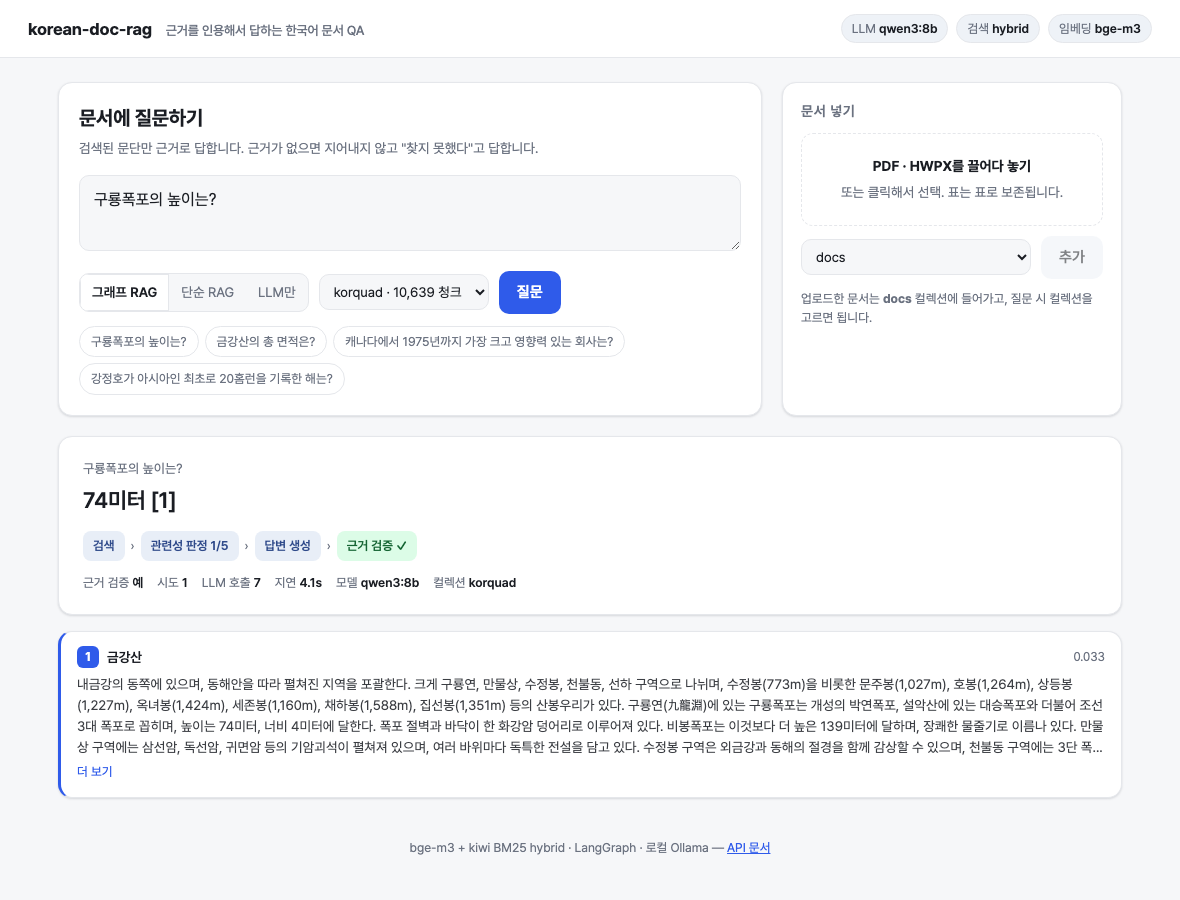
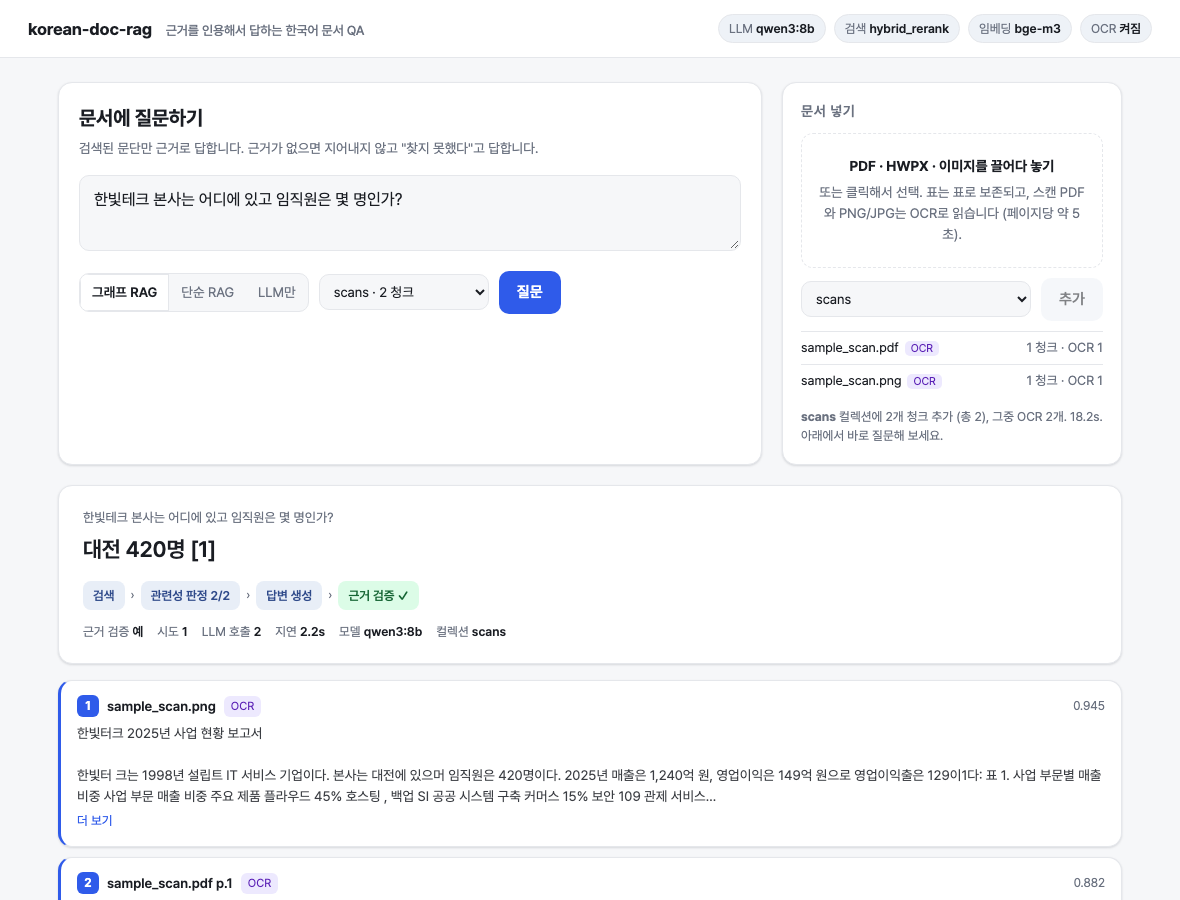
feat(ui): surface OCR in the web UI and upload API
- /upload returns per-file {chunks, tables, ocr} and a warnings[] list naming
  files that produced no text and why (OCR off / easyocr missing / nothing
  recognised) instead of silently reporting 0 chunks
- /health reports grade_mode and OCR status {enabled, available, langs}
- citations carry kind (text | table | ocr); Hit.kind populated from chunk meta
- UI: OCR status pill, drop-zone hint with per-page cost, OCR tag on queued
  image files, elapsed timer while uploading, per-file chunk/table/OCR counts,
  non-fatal warning banner, OCR badge on citation cards, path chip renders
  grade:rerank as "관련성 판정 n/m"
- assets/ui.png re-captured with a scanned PDF + PNG upload and an OCR-cited answer

diff --git a/src/kdr/static/index.html b/src/kdr/static/index.html
@@ -79,8 +79,14 @@ select{padding:8px 10px;border:1px solid var(--line);border-radius:10px;backgrou
 @keyframes sh{0%{background-position:200% 0}100%{background-position:-200% 0}}
 .loading{padding:22px 24px}
 .loading .t{display:flex;justify-content:space-between;color:var(--muted);font-size:13px;margin-bottom:12px}
-.alert{padding:14px 16px;border-radius:10px;background:#fee2e2;color:#991b1b;font-size:13.5px;margin-top:16px;display:none}
-@media (prefers-color-scheme:dark){.alert{background:#7f1d1d;color:#fecaca}}
+.alert{padding:14px 16px;border-radius:10px;background:#fee2e2;color:#991b1b;font-size:13.5px;margin-top:16px;display:none;white-space:pre-line}
+.alert.warn{background:#fef3c7;color:#92400e}
+@media (prefers-color-scheme:dark){.alert{background:#7f1d1d;color:#fecaca}.alert.warn{background:#78350f;color:#fde68a}}
+.files li .tag{font-size:11px;padding:1px 6px;border-radius:5px;background:var(--soft);color:var(--muted);margin-left:6px}
+.files li .tag.ocr{background:#ede9fe;color:#5b21b6}.files li.empty span:last-child{color:#b45309}
+@media (prefers-color-scheme:dark){.files li .tag.ocr{background:#4c1d95;color:#ddd6fe}}
+.cite .k.ocr{background:#ede9fe;color:#5b21b6}
+@media (prefers-color-scheme:dark){.cite .k.ocr{background:#4c1d95;color:#ddd6fe}}
 footer{margin-top:40px;color:var(--muted);font-size:12.5px;text-align:center}
 </style>
 </head>
@@ -110,7 +116,7 @@ footer{margin-top:40px;color:var(--muted);font-size:12.5px;text-align:center}
       <h2>문서 넣기</h2>
       <div class="drop" id="drop">
         <b>PDF · HWPX · 이미지를 끌어다 놓기</b>
-        또는 클릭해서 선택. 표는 표로 보존됩니다.
+        또는 클릭해서 선택. 표는 표로 보존되고, 스캔 PDF와 PNG/JPG는 OCR로 읽습니다<span id="ocrhint"></span>.
         <input type="file" id="file" accept=".pdf,.hwpx,.png,.jpg,.jpeg,.webp,.tif,.tiff,.bmp" multiple hidden>
       </div>
       <div class="row" style="margin-top:10px">
@@ -141,7 +147,7 @@ footer{margin-top:40px;color:var(--muted);font-size:12.5px;text-align:center}
     </div>
     <div class="cites" id="rcites"></div>
   </section>
-  <footer>bge-m3 + kiwi BM25 hybrid · LangGraph · 로컬 Ollama · <a href="/docs">API 문서</a></footer>
+  <footer>bge-m3 + kiwi BM25 hybrid + cross-encoder rerank · LangGraph · EasyOCR · 로컬 Ollama · <a href="/docs">API 문서</a></footer>
 </main>
 <script>
 const $=s=>document.querySelector(s);
@@ -153,7 +159,9 @@ const esc=s=>String(s??"").replace(/[&<>]/g,c=>({"&":"&amp;","<":"&lt;",">":"&gt
 async function loadStatus(){
   try{
     const h=await (await fetch("/health")).json();
-    $("#status").innerHTML=`<span class="pill">LLM <b>${esc(h.llm)}</b></span><span class="pill">검색 <b>${esc(h.retrieval_mode)}</b></span><span class="pill">임베딩 <b>${esc(h.embed_model.split("/").pop())}</b></span>`;
+    const o=h.ocr||{}; const ocrTxt=!o.enabled?"꺼짐":!o.available?"미설치":"켜짐";
+    $("#status").innerHTML=`<span class="pill">LLM <b>${esc(h.llm)}</b></span><span class="pill">검색 <b>${esc(h.retrieval_mode)}</b></span><span class="pill">임베딩 <b>${esc(h.embed_model.split("/").pop())}</b></span><span class="pill" title="스캔 PDF·이미지 인식 (easyocr)">OCR <b>${ocrTxt}</b></span>`;
+    $("#ocrhint").textContent=!o.enabled?" (지금은 OCR이 꺼져 있어 스캔·이미지는 빈 채로 들어갑니다)":!o.available?" (easyocr 미설치 — 스캔·이미지는 빈 채로 들어갑니다)":" (페이지당 약 5초)";
   }catch{ $("#status").innerHTML=`<span class="pill">서버 연결 실패</span>`; }
   await loadCollections();
 }
@@ -178,14 +186,14 @@ $("#mode").querySelectorAll("button").forEach(b=>b.onclick=()=>{mode=b.dataset.v
 function stepChip(p){
   const [name,arg]=p.split(/:(.*)/s);
   const L={retrieve:"검색",grade:"관련성 판정",generate:"답변 생성",verify:"근거 검증",rewrite:"질의 재작성",abstain:"근거 없음",stop:"정지"};
-  let cls="",label=L[name]||name;
-  if(name==="grade") label+=` ${arg}`;
+  let cls="",label=L[name]||name,title="";
+  if(name==="grade"){ const m=/^rerank:(.*)$/.exec(arg||""); label+=` ${m?m[1]:arg}`; if(m) title="cross-encoder 점수(≥0.2)로 판정 — LLM 호출 없음"; }
   if(name==="verify") {cls=arg==="ok"?"ok":arg==="abstain"?"mute":"bad"; label+=arg==="ok"?" ✓":arg==="fail"?" ✗":"";}
   if(name==="rewrite") {cls="warn"; label+=arg&&arg!=="dup"?` “${arg}”`:arg==="dup"?" (중복)":"";}
   if(name==="abstain"||name==="stop") cls="mute";
-  return `<span class="step ${cls}">${esc(label)}</span>`;
+  return `<span class="step ${cls}" title="${esc(title)}">${esc(label)}</span>`;
 }
-function showError(m){$("#alert").style.display="block";$("#alert").textContent=m;}
+function showError(m){$("#alert").style.display="block";$("#alert").className="alert";$("#alert").textContent=m;}
 function hideError(){$("#alert").style.display="none";}
 
 async function ask(){
@@ -208,8 +216,9 @@ function render(d){
   const g=d.grounded===null?"—":d.grounded?"예":"아니오";
   $("#rmeta").innerHTML=`<span>근거 검증 <b>${g}</b></span><span>시도 <b>${d.attempts}</b></span><span>LLM 호출 <b>${d.usage.calls}</b></span><span>지연 <b>${(d.latency_ms/1000).toFixed(1)}s</b></span><span>모델 <b>${esc(d.llm)}</b></span><span>컬렉션 <b>${esc(d.collection)}</b></span>`;
   $("#rcites").innerHTML=d.citations.length?d.citations.map(c=>{
-    const isT=c.text.startsWith("[표]");
-    return `<div class="card cite"><div class="h"><span class="n">${c.n}</span><span class="t">${esc(c.title)}</span>${isT?'<span class="k">표</span>':""}<span class="s">${c.score.toFixed(3)}</span></div><div class="body">${esc(c.text)}</div><button class="more" onclick="this.parentElement.classList.toggle('open');this.textContent=this.parentElement.classList.contains('open')?'접기':'더 보기'">더 보기</button></div>`;
+    const kind=c.kind||(c.text.startsWith("[표]")?"table":null);
+    const badge=kind==="table"?'<span class="k">표</span>':kind==="ocr"?'<span class="k ocr" title="스캔·이미지를 OCR로 읽은 텍스트 — 오인식이 있을 수 있습니다">OCR</span>':"";
+    return `<div class="card cite"><div class="h"><span class="n">${c.n}</span><span class="t">${esc(c.title)}</span>${badge}<span class="s">${c.score.toFixed(3)}</span></div><div class="body">${esc(c.text)}</div><button class="more" onclick="this.parentElement.classList.toggle('open');this.textContent=this.parentElement.classList.contains('open')?'접기':'더 보기'">더 보기</button></div>`;
   }).join(""):`<div class="note">${d.mode==="none"?"검색 없이 모델 지식만으로 답했으므로 출처가 없습니다.":"인용된 문단이 없습니다."}</div>`;
   $("#result").style.display="block";
 }
@@ -228,23 +237,35 @@ function queue(fs){
   if(ok.length<fs.length) showError("PDF, HWPX 또는 이미지(PNG/JPG)만 받습니다."); else hideError();
   pending=pending.concat(ok); renderFiles(); $("#upload").disabled=!pending.length;
 }
+const isImg=n=>/\.(png|jpe?g|webp|tiff?|bmp)$/i.test(n);
 function renderFiles(rows){
-  $("#files").innerHTML=(rows||pending.map(f=>({name:f.name,info:(f.size/1024).toFixed(0)+" KB"}))).map(r=>`<li><span>${esc(r.name)}</span><span>${esc(r.info)}</span></li>`).join("");
+  rows=rows||pending.map(f=>({name:f.name,info:(f.size/1024).toFixed(0)+" KB",tag:isImg(f.name)?"OCR":""}));
+  $("#files").innerHTML=rows.map(r=>`<li class="${r.empty?"empty":""}"><span>${esc(r.name)}${r.tag?`<span class="tag ${r.tag==="OCR"?"ocr":""}">${esc(r.tag)}</span>`:""}</span><span>${esc(r.info)}</span></li>`).join("");
 }
+function showWarn(m){$("#alert").style.display="block";$("#alert").className="alert warn";$("#alert").textContent=m;}
 $("#upcol").onchange=()=>{ if($("#upcol").value==="__new__"){ const n=prompt("새 컬렉션 이름 (영문·숫자·_·-)"); if(n&&/^[A-Za-z0-9_\-]{1,40}$/.test(n)&&n!=="korquad"){$("#upcol").insertAdjacentHTML("afterbegin",`<option value="${n}">${n}</option>`);$("#upcol").value=n;} else $("#upcol").value=$("#upcol").options[0].value; } };
 $("#upload").onclick=async()=>{
   if(!pending.length) return;
   const fd=new FormData(); pending.forEach(f=>fd.append("files",f)); fd.append("collection",$("#upcol").value);
-  $("#upload").disabled=true; $("#upload").textContent="파싱·임베딩 중…"; hideError();
+  const hasImg=pending.some(f=>isImg(f.name));
+  const label=hasImg?"OCR·임베딩 중…":"파싱·임베딩 중…";
+  $("#upload").disabled=true; hideError();
+  const t0=performance.now(); const clock=setInterval(()=>$("#upload").textContent=`${label} ${((performance.now()-t0)/1000).toFixed(0)}s`,500);
+  $("#upload").textContent=label;
   try{
     const r=await fetch("/upload",{method:"POST",body:fd});
     if(!r.ok){ let m=`${r.status}`; try{m=(await r.json()).detail||m;}catch{} throw new Error(m); }
     const d=await r.json();
-    renderFiles(Object.entries(d.files).map(([n,c])=>({name:n,info:c+" 청크"})));
-    $("#upnote").innerHTML=`<b>${esc(d.collection)}</b> 컬렉션에 ${d.added}개 청크 추가 (총 ${d.total}). 아래에서 바로 질문해 보세요.`;
-    pending=[]; await loadCollections(d.collection); $("#col").value=d.collection; renderSamples();
+    renderFiles(Object.entries(d.files).map(([n,c])=>{
+      const parts=[`${c.chunks} 청크`]; if(c.tables) parts.push(`표 ${c.tables}`); if(c.ocr) parts.push(`OCR ${c.ocr}`);
+      return {name:n,info:c.chunks?parts.join(" · "):"0 청크",tag:c.ocr?"OCR":"",empty:!c.chunks};
+    }));
+    const nOcr=Object.values(d.files).reduce((a,c)=>a+c.ocr,0);
+    $("#upnote").innerHTML=`<b>${esc(d.collection)}</b> 컬렉션에 ${d.added}개 청크 추가 (총 ${d.total})${nOcr?`, 그중 OCR ${nOcr}개`:""}. ${((performance.now()-t0)/1000).toFixed(1)}s. 아래에서 바로 질문해 보세요.`;
+    if(d.warnings&&d.warnings.length) showWarn("일부 파일에서 텍스트를 얻지 못했습니다:\n"+d.warnings.join("\n"));
+    pending=[]; await loadCollections(d.collection); $("#col").value=d.collection; $("#upcol").value=d.collection; renderSamples();
   }catch(e){ showError("업로드 실패: "+e.message); }
-  finally{ $("#upload").textContent="추가"; $("#upload").disabled=!pending.length; }
+  finally{ clearInterval(clock); $("#upload").textContent="추가"; $("#upload").disabled=!pending.length; }
 };
 
 // ── URL로 바로 실행 (?q=&mode=&collection=) ──

diff --git a/src/kdr/ingest_docs.py b/src/kdr/ingest_docs.py
@@ -24,7 +24,7 @@ from langchain_text_splitters import RecursiveCharacterTextSplitter
 
 from kdr.config import settings
 from kdr.ingest import Chunk, build_bm25, build_vector, write_jsonl
-from kdr.ocr import OCRUnavailable, ocr_image, ocr_pdf_page
+from kdr.ocr import OCRUnavailable, available as ocr_available, ocr_image, ocr_pdf_page
 
 log = logging.getLogger(__name__)
 
@@ -174,13 +174,17 @@ def add_files(files: list[Path], collection: str) -> dict:
     import json
 
     new: list[Chunk] = []
-    per_file: dict[str, int] = {}
+    per_file: dict[str, dict] = {}
+    warnings: list[str] = []
     for f in files:
         parser = PARSERS.get(f.suffix.lower())
         if not parser:
             continue
         got = parser(f)
-        per_file[f.name] = len(got)
+        kinds = [c.meta["kind"] for c in got if c.meta]
+        per_file[f.name] = {"chunks": len(got), "tables": kinds.count("table"), "ocr": kinds.count("ocr")}
+        if not got:
+            warnings.append(f"{f.name}: {_empty_reason(f)}")
         new += got
     path = settings.chunks_path_for(collection)
     existing: dict[str, Chunk] = {}
@@ -195,7 +199,19 @@ def add_files(files: list[Path], collection: str) -> dict:
     write_jsonl(path, (asdict(c) for c in chunks))
     build_bm25(chunks, collection)
     build_vector(chunks, collection=collection)
-    return {"files": per_file, "added": len(new), "total": len(chunks), "collection": collection}
+    return {"files": per_file, "warnings": warnings, "added": len(new), "total": len(chunks), "collection": collection}
+
+
+def _empty_reason(f: Path) -> str:
+    """청크가 0개인 파일에 붙일 이유. 이미지·스캔은 OCR 상태에 따라 갈린다."""
+    needs_ocr = f.suffix.lower() in IMAGE_EXTS or f.suffix.lower() == ".pdf"
+    if needs_ocr and not settings.ocr_enabled:
+        return "텍스트 레이어가 없고 OCR이 꺼져 있습니다 (OCR_ENABLED=false)"
+    if needs_ocr and not ocr_available():
+        return "텍스트 레이어가 없고 easyocr 이 설치되지 않았습니다 (pip install -e '.[ocr]')"
+    if needs_ocr:
+        return "OCR이 텍스트를 인식하지 못했습니다 (해상도가 낮거나 글자가 없는 이미지)"
+    return "추출할 텍스트가 없습니다"
 
 
 def main(argv: list[str]) -> None:

diff --git a/src/kdr/api.py b/src/kdr/api.py
@@ -44,6 +44,7 @@ class Citation(BaseModel):
     title: str
     text: str
     score: float
+    kind: str | None = None  # text | table | ocr (문서 컬렉션), KorQuAD 는 null
 
 
 class AskResponse(BaseModel):
@@ -87,8 +88,12 @@ def health() -> dict:
         n = len(_chunks(settings.collection))
     except FileNotFoundError:
         raise HTTPException(503, "index not built — run: make index")
+    from kdr.ocr import available as ocr_available
+
     return {"status": "ok", "chunks": n, "llm": model_label(), "provider": settings.llm_provider,
-            "embed_model": settings.embed_model, "retrieval_mode": settings.retrieval_mode}
+            "embed_model": settings.embed_model, "retrieval_mode": settings.retrieval_mode,
+            "grade_mode": settings.grade_mode,
+            "ocr": {"enabled": settings.ocr_enabled, "available": ocr_available(), "langs": settings.ocr_langs}}
 
 
 @app.post("/ask", response_model=AskResponse)
@@ -110,7 +115,9 @@ def ask(req: AskRequest) -> AskResponse:
 
 @app.post("/upload")
 def upload(files: list[UploadFile] = File(...), collection: str = Form("docs")) -> dict:
-    """PDF/HWPX/이미지를 받아 파싱하고 컬렉션에 추가한다. 스캔 PDF·이미지는 OCR. 같은 내용은 중복 추가되지 않는다."""
+    """PDF/HWPX/이미지를 받아 파싱하고 컬렉션에 추가한다. 스캔 PDF·이미지는 OCR. 같은 내용은 중복 추가되지 않는다.
+
+    응답: {files: {이름: {chunks, tables, ocr}}, warnings: [청크 0개인 파일의 이유], added, total, collection}"""
     from kdr.ingest_docs import PARSERS, add_files
     from kdr.retriever import invalidate
 

diff --git a/src/kdr/retriever.py b/src/kdr/retriever.py
@@ -29,6 +29,7 @@ class Hit:
     text: str
     score: float
     rerank: float | None = None  # hybrid_rerank 일 때 cross-encoder 점수
+    kind: str | None = None  # 문서 청크: text | table | ocr. KorQuAD 는 None
 
 
 @lru_cache(maxsize=8)
@@ -73,7 +74,7 @@ def _embedder():
 
 def _hit(col: str, cid: str, score: float) -> Hit:
     c = _chunks(col)[cid]
-    return Hit(cid, c["title"], c["text"], float(score))
+    return Hit(cid, c["title"], c["text"], float(score), kind=(c.get("meta") or {}).get("kind"))
 
 
 # 프로세스 안의 모든 로컬 모델 forward(bge-m3, cross-encoder)가 공유하는 락.
@@ -126,5 +127,5 @@ def retrieve(query: str, k: int | None = None, mode: str | None = None, collecti
 
         docs = rerank_retriever(col, k).invoke(query)
         return [Hit(d.metadata["id"], d.metadata["title"], d.page_content, d.metadata["rerank_score"],
-                    rerank=d.metadata["rerank_score"]) for d in docs]
+                    rerank=d.metadata["rerank_score"], kind=d.metadata.get("kind")) for d in docs]
     raise ValueError(f"unknown retrieval mode: {mode}")

diff --git a/src/kdr/baseline.py b/src/kdr/baseline.py
@@ -27,7 +27,8 @@ class Result:
 
 
 def _citations(hits: list[Hit]) -> list[dict]:
-    return [{"n": i + 1, "id": h.id, "title": h.title, "text": h.text, "score": round(h.score, 4)} for i, h in enumerate(hits)]
+    return [{"n": i + 1, "id": h.id, "title": h.title, "text": h.text, "score": round(h.score, 4), "kind": h.kind}
+            for i, h in enumerate(hits)]
 
 
 def ask(question: str, k: int | None = None, mode: str | None = None, collection: str | None = None) -> Result:

diff --git a/tests/test_lc.py b/tests/test_lc.py
@@ -15,7 +15,7 @@ def test_kdr_retriever_wraps_retrieve_as_documents(monkeypatch):
     monkeypatch.setattr(kdr.retriever, "retrieve", _fake_retrieve)
     docs = lc.KdrRetriever(collection="c", k=3).invoke("q")
     assert [type(d) for d in docs] == [Document] * 3
-    assert docs[0].metadata == {"id": "id0", "title": "t0", "score": 1.0}
+    assert docs[0].metadata == {"id": "id0", "title": "t0", "score": 1.0, "kind": None}
     assert docs[0].page_content == "text 0 q"
 
 

diff --git a/src/kdr/lc.py b/src/kdr/lc.py
@@ -23,7 +23,7 @@ from kdr.retriever import model_lock
 
 
 def to_document(h) -> Document:  # h: retriever.Hit (순환 import 회피)
-    return Document(page_content=h.text, metadata={"id": h.id, "title": h.title, "score": h.score})
+    return Document(page_content=h.text, metadata={"id": h.id, "title": h.title, "score": h.score, "kind": h.kind})
 
 
 class KdrRetriever(BaseRetriever):

diff --git a/src/kdr/ocr.py b/src/kdr/ocr.py
@@ -20,6 +20,15 @@ class OCRUnavailable(RuntimeError):
     pass
 
 
+def available() -> bool:
+    """easyocr 이 import 되는가 (모델은 로드하지 않는다). /health 와 업로드 경고가 쓴다."""
+    try:
+        import easyocr  # noqa: F401
+    except ImportError:
+        return False
+    return True
+
+
 @functools.lru_cache(maxsize=1)
 def _reader():
     try:

diff --git a/docs/architecture.md b/docs/architecture.md
@@ -74,10 +74,10 @@ LLM 호출 수는 기본 구성에서 가장 적을 때 2회(generate + verify),
 
 | 엔드포인트 | 설명 |
 |---|---|
-| `POST /ask` | `{q, mode?, k?, collection?}`를 받아 `{answer, citations[], path[], grounded, attempts, usage, latency_ms, mode, llm, collection}`을 돌려준다. `mode`는 `graph`, `naive`, `none` 중 하나다 |
-| `POST /upload` | multipart로 PDF·HWPX·이미지 파일(`files[]`)과 `collection`(기본 `docs`)을 받아 파싱하고(스캔 페이지·이미지는 OCR) 색인에 추가한다. 이미 있는 청크는 다시 넣지 않는다 |
+| `POST /ask` | `{q, mode?, k?, collection?}`를 받아 `{answer, citations[], path[], grounded, attempts, usage, latency_ms, mode, llm, collection}`을 돌려준다. `mode`는 `graph`, `naive`, `none` 중 하나다. `citations[].kind`는 문서 청크의 종류(`text`, `table`, `ocr`)로 화면의 배지에 쓴다 |
+| `POST /upload` | multipart로 PDF·HWPX·이미지 파일(`files[]`)과 `collection`(기본 `docs`)을 받아 파싱하고(스캔 페이지·이미지는 OCR) 색인에 추가한다. 이미 있는 청크는 다시 넣지 않는다. 응답은 `{files: {이름: {chunks, tables, ocr}}, warnings[], added, total, collection}` — `warnings`에는 청크가 0개인 파일과 그 이유(OCR 꺼짐·미설치·인식 실패)가 들어간다 |
 | `GET /collections` | 검색할 수 있는 컬렉션과 각각의 청크 수 |
-| `GET /health` | 색인 크기, 모델, provider, 검색 모드 |
+| `GET /health` | 인덱스 청크 수, LLM, 검색·grade 모드, OCR 상태(`{enabled, available, langs}`) |
 | `GET /` | 화면 한 장(`static/index.html`). `?q=&mode=&collection=`을 주면 열리면서 바로 질문한다 |
 
 컬렉션은 색인의 단위다. `korquad`는 평가용이고 업로드한 문서는 `docs`나 새 이름의 컬렉션으로 들어간다. 서버는 컬렉션별로 청크·BM25·Chroma 핸들을 캐시하고 업로드 뒤에 비운다.
